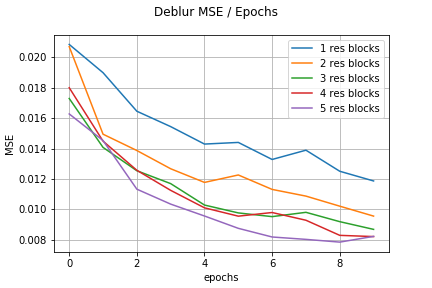
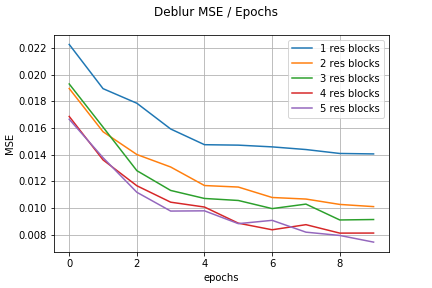
Add files via upload

Changed region(s): [[0.0301, 0.1562, 0.9028, 0.8438]]

diff --git a/sol5.py b/sol5.py
@@ -333,8 +333,7 @@ def train_model(model, images, corruption_func, batch_size, steps_per_epoch, num
     :param num_epochs: the number of epochs for which the optimization will run.
     :param num_valid_samples: the number of samples in the validation set to test on after every epoch.
     """
-    validation = images[int(len(images) // 1.25):len(images) - 1]
-    training = images[0:int(len(images) // 1.25) - 1]
+    training, validation = train_test_split(images, test_size=0.2)
     train_data = load_dataset(training, batch_size, corruption_func, model.input_shape[1:3])
     valid_data = load_dataset(validation, batch_size, corruption_func, model.input_shape[1:3])
     model.compile(loss='mean_squared_error', optimizer=Adam(beta_2=0.9))
